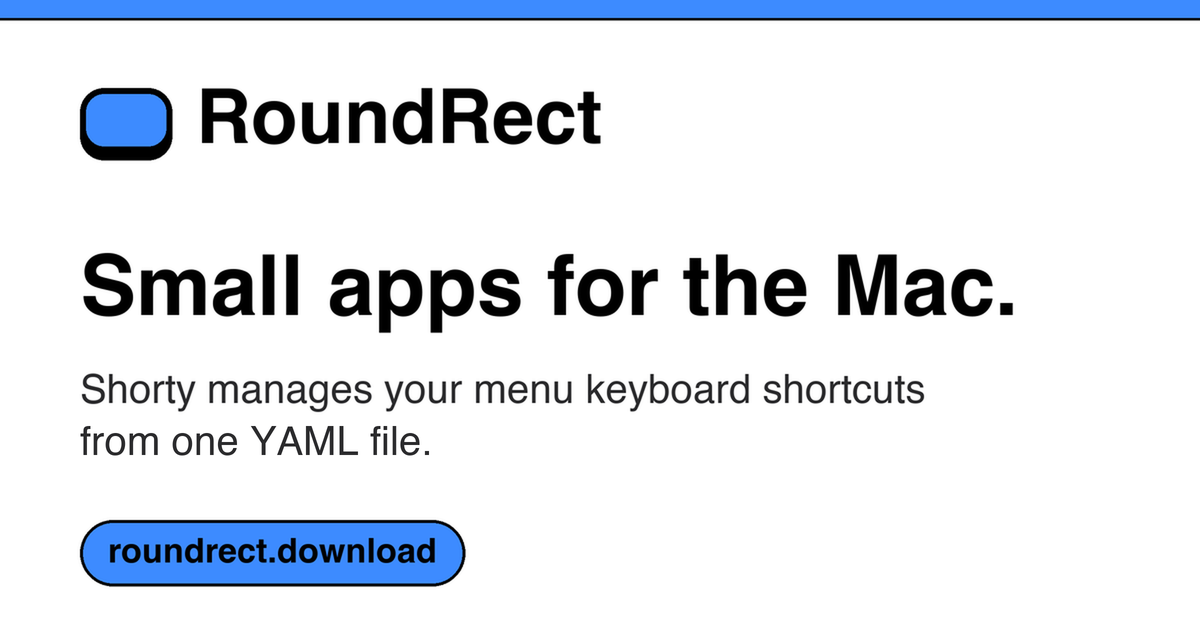
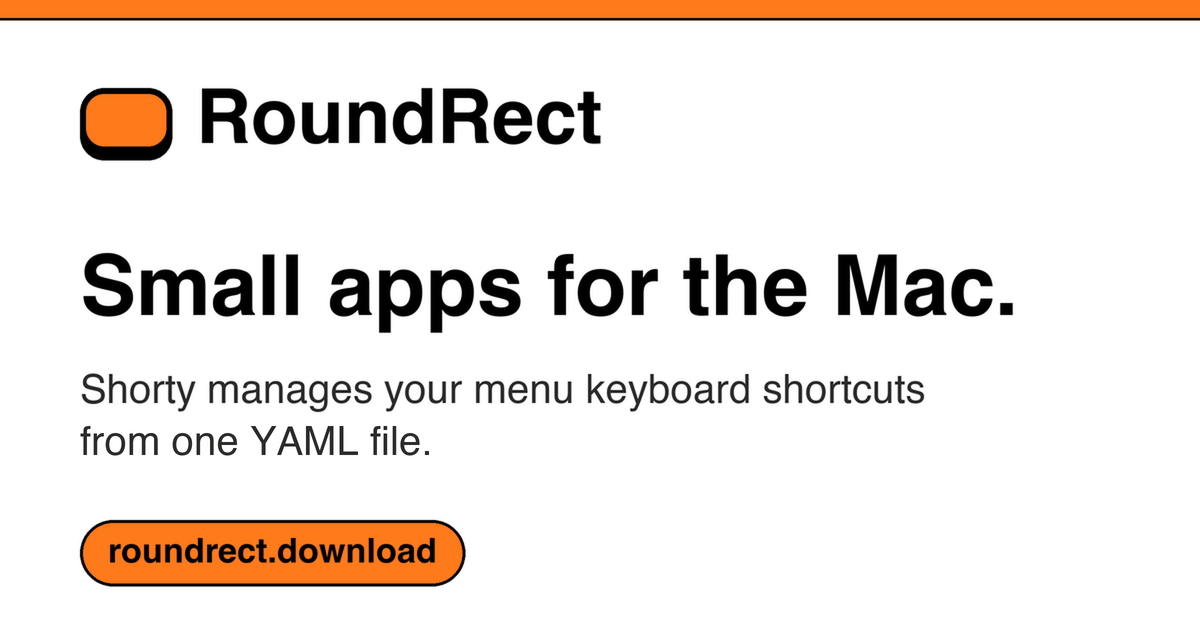
Accent: warm orange #ff7a1a instead of blue (images recoloured, contrast figures updated)

Changed region(s): [[0.0617, 0.8143, 0.4008, 0.9349], [0.0, 0.0, 1.0, 0.0302], [0.0617, 0.1206, 0.1542, 0.2413]]

diff --git a/blog/introducing-shorty.html b/blog/introducing-shorty.html
@@ -19,10 +19,10 @@
 <meta property="og:image:type" content="image/png">
 <meta property="og:image:width" content="1200">
 <meta property="og:image:height" content="630">
-<meta property="og:image:alt" content="RoundRect: small apps for the Mac, with a blue rounded-rectangle mark.">
+<meta property="og:image:alt" content="RoundRect: small apps for the Mac, with an orange rounded-rectangle mark.">
 <meta name="twitter:card" content="summary_large_image">
 <meta name="twitter:image" content="https://roundrect.download/og-image.png">
-<meta name="twitter:image:alt" content="RoundRect: small apps for the Mac, with a blue rounded-rectangle mark.">
+<meta name="twitter:image:alt" content="RoundRect: small apps for the Mac, with an orange rounded-rectangle mark.">
 <meta name="twitter:title" content="Introducing Shorty — RoundRect blog">
 <meta name="twitter:description" content="Shorty manages the menu keyboard shortcuts on your Mac from one YAML file, and it is not released yet.">
 <meta property="article:published_time" content="2026-10-20">
@@ -30,7 +30,7 @@
 <link rel="alternate" type="application/atom+xml" title="RoundRect blog" href="feed.xml">
 <link rel="icon" type="image/png" href="../favicon.png">
 <link rel="apple-touch-icon" href="../apple-touch-icon.png">
-<link rel="stylesheet" href="../site.css?v=a2924bcd">
+<link rel="stylesheet" href="../site.css?v=bc1d1168">
 </head>
 <body class="blog">
 <a class="skip" href="#main">Skip to the post</a>

diff --git a/shorty.html b/shorty.html
@@ -19,16 +19,16 @@
 <meta property="og:image:type" content="image/png">
 <meta property="og:image:width" content="1200">
 <meta property="og:image:height" content="630">
-<meta property="og:image:alt" content="RoundRect: small apps for the Mac, with a blue rounded-rectangle mark.">
+<meta property="og:image:alt" content="RoundRect: small apps for the Mac, with an orange rounded-rectangle mark.">
 <meta name="twitter:card" content="summary_large_image">
 <meta name="twitter:title" content="Shorty: menu keyboard shortcuts from one YAML file">
 <meta name="twitter:description" content="Shorty manages macOS menu keyboard shortcuts from one YAML file: a menu bar app and a command line tool for macOS 15 or later. Not yet released.">
 <meta name="twitter:image" content="https://roundrect.download/og-image.png">
-<meta name="twitter:image:alt" content="RoundRect: small apps for the Mac, with a blue rounded-rectangle mark.">
+<meta name="twitter:image:alt" content="RoundRect: small apps for the Mac, with an orange rounded-rectangle mark.">
 <link rel="alternate" type="application/atom+xml" title="RoundRect blog" href="blog/feed.xml">
 <link rel="icon" type="image/png" href="favicon.png">
 <link rel="apple-touch-icon" href="apple-touch-icon.png">
-<link rel="stylesheet" href="site.css?v=a2924bcd">
+<link rel="stylesheet" href="site.css?v=bc1d1168">
 </head>
 <body class="doc">
 <a class="skip" href="#main">Skip to content</a>

diff --git a/index.html b/index.html
@@ -19,16 +19,16 @@
 <meta property="og:image:type" content="image/png">
 <meta property="og:image:width" content="1200">
 <meta property="og:image:height" content="630">
-<meta property="og:image:alt" content="RoundRect: small apps for the Mac, with a blue rounded-rectangle mark.">
+<meta property="og:image:alt" content="RoundRect: small apps for the Mac, with an orange rounded-rectangle mark.">
 <meta name="twitter:card" content="summary_large_image">
 <meta name="twitter:title" content="RoundRect: small apps for the Mac">
 <meta name="twitter:description" content="RoundRect is a small Mac-app studio. Its first app, Shorty, manages macOS menu keyboard shortcuts from one YAML file. Not yet released.">
 <meta name="twitter:image" content="https://roundrect.download/og-image.png">
-<meta name="twitter:image:alt" content="RoundRect: small apps for the Mac, with a blue rounded-rectangle mark.">
+<meta name="twitter:image:alt" content="RoundRect: small apps for the Mac, with an orange rounded-rectangle mark.">
 <link rel="alternate" type="application/atom+xml" title="RoundRect blog" href="blog/feed.xml">
 <link rel="icon" type="image/png" href="favicon.png">
 <link rel="apple-touch-icon" href="apple-touch-icon.png">
-<link rel="stylesheet" href="site.css?v=a2924bcd">
+<link rel="stylesheet" href="site.css?v=bc1d1168">
 </head>
 <body class="home">
 <a class="skip" href="#main">Skip to content</a>

diff --git a/privacy.html b/privacy.html
@@ -19,16 +19,16 @@
 <meta property="og:image:type" content="image/png">
 <meta property="og:image:width" content="1200">
 <meta property="og:image:height" content="630">
-<meta property="og:image:alt" content="RoundRect: small apps for the Mac, with a blue rounded-rectangle mark.">
+<meta property="og:image:alt" content="RoundRect: small apps for the Mac, with an orange rounded-rectangle mark.">
 <meta name="twitter:card" content="summary_large_image">
 <meta name="twitter:title" content="Privacy Policy: RoundRect">
 <meta name="twitter:description" content="What roundrect.download collects: no analytics, no cookies, no forms; requests are counted only in Cloudflare request logs.">
 <meta name="twitter:image" content="https://roundrect.download/og-image.png">
-<meta name="twitter:image:alt" content="RoundRect: small apps for the Mac, with a blue rounded-rectangle mark.">
+<meta name="twitter:image:alt" content="RoundRect: small apps for the Mac, with an orange rounded-rectangle mark.">
 <link rel="alternate" type="application/atom+xml" title="RoundRect blog" href="blog/feed.xml">
 <link rel="icon" type="image/png" href="favicon.png">
 <link rel="apple-touch-icon" href="apple-touch-icon.png">
-<link rel="stylesheet" href="site.css?v=a2924bcd">
+<link rel="stylesheet" href="site.css?v=bc1d1168">
 </head>
 <body class="doc">
 <a class="skip" href="#main">Skip to content</a>

diff --git a/blog/index.html b/blog/index.html
@@ -19,16 +19,16 @@
 <meta property="og:image:type" content="image/png">
 <meta property="og:image:width" content="1200">
 <meta property="og:image:height" content="630">
-<meta property="og:image:alt" content="RoundRect: small apps for the Mac, with a blue rounded-rectangle mark.">
+<meta property="og:image:alt" content="RoundRect: small apps for the Mac, with an orange rounded-rectangle mark.">
 <meta name="twitter:card" content="summary_large_image">
 <meta name="twitter:image" content="https://roundrect.download/og-image.png">
-<meta name="twitter:image:alt" content="RoundRect: small apps for the Mac, with a blue rounded-rectangle mark.">
+<meta name="twitter:image:alt" content="RoundRect: small apps for the Mac, with an orange rounded-rectangle mark.">
 <meta name="twitter:title" content="Blog — RoundRect">
 <meta name="twitter:description" content="Release news and tips and tricks from RoundRect, the small Mac-app studio behind Shorty.">
 <link rel="alternate" type="application/atom+xml" title="RoundRect blog" href="feed.xml">
 <link rel="icon" type="image/png" href="../favicon.png">
 <link rel="apple-touch-icon" href="../apple-touch-icon.png">
-<link rel="stylesheet" href="../site.css?v=a2924bcd">
+<link rel="stylesheet" href="../site.css?v=bc1d1168">
 </head>
 <body class="blog">
 <a class="skip" href="#main">Skip to the posts</a>

diff --git a/404.html b/404.html
@@ -20,16 +20,16 @@
 <meta property="og:image:type" content="image/png">
 <meta property="og:image:width" content="1200">
 <meta property="og:image:height" content="630">
-<meta property="og:image:alt" content="RoundRect: small apps for the Mac, with a blue rounded-rectangle mark.">
+<meta property="og:image:alt" content="RoundRect: small apps for the Mac, with an orange rounded-rectangle mark.">
 <meta name="twitter:card" content="summary_large_image">
 <meta name="twitter:title" content="Page not found: RoundRect">
 <meta name="twitter:description" content="There is nothing at this address on roundrect.download.">
 <meta name="twitter:image" content="https://roundrect.download/og-image.png">
-<meta name="twitter:image:alt" content="RoundRect: small apps for the Mac, with a blue rounded-rectangle mark.">
+<meta name="twitter:image:alt" content="RoundRect: small apps for the Mac, with an orange rounded-rectangle mark.">
 <link rel="alternate" type="application/atom+xml" title="RoundRect blog" href="/blog/feed.xml">
 <link rel="icon" type="image/png" href="/favicon.png">
 <link rel="apple-touch-icon" href="/apple-touch-icon.png">
-<link rel="stylesheet" href="/site.css?v=a2924bcd">
+<link rel="stylesheet" href="/site.css?v=bc1d1168">
 </head>
 <body class="doc">
 <a class="skip" href="#main">Skip to content</a>

diff --git a/site.css b/site.css
@@ -1,6 +1,6 @@
 /* RoundRect: black on white, plus ONE accent colour (--accent) and tints of it. DESIGN.md is the guide. */
 :root {
-  --accent: #3d8bff;                                           /* black text on it: 6.3:1 */
+  --accent: #ff7a1a;                                           /* black text on it: 8.05:1 */
   --tint: color-mix(in oklch, var(--accent) 55%, white);       /* bands, chips, table heads */
   --tint-soft: color-mix(in oklch, var(--accent) 24%, white);  /* quiet fills, inline code */
   --ink: #000;

diff --git a/tools/blog-build.py b/tools/blog-build.py
@@ -226,7 +226,7 @@ class Post(docs.Page):
 
 
 # --------------------------------------------------------------------------------------------------------- pages
-ALT = 'RoundRect: small apps for the Mac, with a blue rounded-rectangle mark.'
+ALT = 'RoundRect: small apps for the Mac, with an orange rounded-rectangle mark.'
 HAS_OG = os.path.isfile(os.path.join(SITE, 'og-image.png'))
 
 

diff --git a/DESIGN.md b/DESIGN.md
@@ -19,7 +19,7 @@ in `:root` of `site.css`; where this file and the CSS differ, the CSS is the det
 
 | token | value | used for |
 |---|---|---|
-| `--accent` | `#3d8bff` (a clear blue) | the logo mark, pills, link-hover highlight, chip fill source |
+| `--accent` | `#ff7a1a` (a warm orange) | the logo mark, pills, link-hover highlight, chip fill source |
 | `--tint` | accent 55% on white (`#94bfff` fallback) | the hero band, chips, table heads, notices |
 | `--tint-soft` | accent 24% on white (`#d8e8ff` fallback) | inline code, code caption bars, contents box |
 | `--ink` | `#000` | text, borders, shadows, focus ring |
@@ -28,8 +28,8 @@ in `:root` of `site.css`; where this file and the CSS differ, the CSS is the det
 | grey | `#555` | shell comments, heading anchors (the lightest text) |
 
 **Contrast rule: text on the accent or a tint is always black (or `--ink-2` on a tint).** Black on `--accent` is
-6.3:1; black on `--tint` about 11:1; `--ink-2` on `--tint` about 7.5:1; `#555` on `--tint-soft` about 5.7:1. The
-accent is never used as a text colour on white (it is 3.3:1 there). Any new accent must keep black-on-accent at
+8.05:1; black on `--tint` about 12:1; `--ink-2` on `--tint` about 8:1; `#555` on `--tint-soft` about 5.9:1 (tints are
+sRGB estimates of the `color-mix` result). The accent is never used as a text colour on white (it is 2.6:1 there). Any new accent must keep black-on-accent at
 4.5:1 or better. No other hue: no blue links, no red warnings, no syntax colours.
 
 ## 3. Typography

diff --git a/SHARING-LINK-PREVIEW.md b/SHARING-LINK-PREVIEW.md
@@ -32,12 +32,12 @@ The root pages are hand-written, so a tag change is made in each. The blog pages
 
 ## The picture
 
-- `og-image.png`: 1200x630, the wordmark with the blue rounded-rectangle mark, "Small apps for the Mac.", a line
+- `og-image.png`: 1200x630, the wordmark with the orange rounded-rectangle mark, "Small apps for the Mac.", a line
   about Shorty, and a `roundrect.download` pill. All pages share it. It does not say anything that goes stale (it
   does not say a release state).
 - It was drawn with Pillow (no source file is kept in the repo): re-make it the same way, keep it 1200x630 and
   under about 200 KB. `apple-touch-icon.png` and `favicon.png` are the mark on white.
-- The alt text is "RoundRect: small apps for the Mac, with a blue rounded-rectangle mark."
+- The alt text is "RoundRect: small apps for the Mac, with an orange rounded-rectangle mark."
 
 ## Checking it
 
